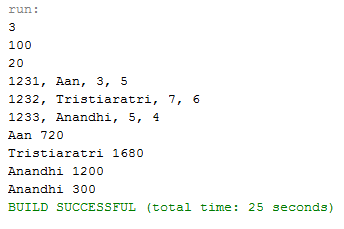
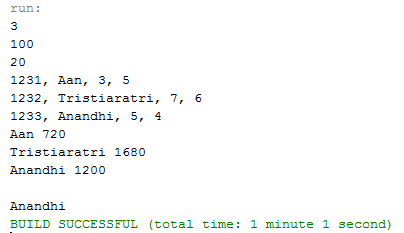
fix sudah

diff --git a/src/mainLari.java b/src/mainLari.java
@@ -56,7 +56,9 @@ public class mainLari {
         for(int i =0;i<m.length;i++){
             m[i].Tampil(lap);
         }
-        m[0].Pemenang(m,lap);
+        System.out.println("");
+        
+        m[0].Pemenang(m,lap);//pemenang
  
     
 }

diff --git a/src/Mahasiswa.java b/src/Mahasiswa.java
@@ -41,7 +41,7 @@ public class Mahasiswa {
                k++;
            }
         }
-        System.out.println((b[k].nama)+" "+b[k].hitung(a));
+        System.out.println((b[k].nama));
     }
 
     
